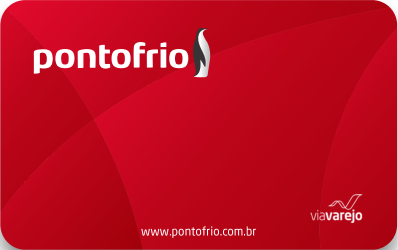
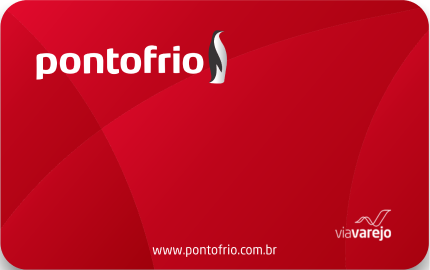
fix: app

diff --git a/src/screens/Document/styles.js b/src/screens/Document/styles.js
@@ -1,4 +1,4 @@
-import styled from "styled-components/native";
+import styled from 'styled-components/native';
 
 export const Container = styled.View`
   flex-direction: row;
@@ -22,19 +22,20 @@ export const DocumentView = styled.View`
   flex: 1;
   margin-left: 20px;
   justify-content: center;
+  align-items: center;
 `;
 
 export const CardFront = styled.ImageBackground`
   justify-content: flex-end;
   padding: 20px;
-  height: 250px;
-  width: 400px;
+  height: 270px;
+  width: 432px;
 `;
 
 export const CardBack = styled.ImageBackground`
   padding: 20px;
-  height: 250px;
-  width: 400px;
+  height: 270px;
+  width: 432px;
   flex-direction: row;
 `;
 

diff --git a/src/screens/Home/index.js b/src/screens/Home/index.js
@@ -85,7 +85,7 @@ export default function Home({navigation}) {
 
           <Option
             onPress={() => {
-              Linking.openURL('tel:0800');
+              Linking.openURL('tel:08007766013');
             }}>
             <IconView>
               <Icon source={contatos} />
@@ -93,9 +93,6 @@ export default function Home({navigation}) {
             <Label>Contatos</Label>
           </Option>
         </Row>
-
-            <Profile>08007766013</Profile>
-
       </Menu>
       <Logout onPress={() => dispatch(singOut())}>
         <Icon source={sair} />

diff --git a/src/screens/Home/styles.js b/src/screens/Home/styles.js
@@ -10,7 +10,7 @@ export const Header = styled.View`
 export const HeadImage = styled.ImageBackground`
   justify-content: flex-end;
   flex-direction: row;
-  flex: 1;
+  height: 450px;
 `;
 
 export const TextView = styled.View`
@@ -87,6 +87,7 @@ export const Label = styled.Text`
   color: #fff;
   margin-top: 7px;
   font-size: 11px;
+  text-align: center;
 `;
 
 export const Logout = styled.TouchableOpacity`

diff --git a/src/screens/Details/styles.js b/src/screens/Details/styles.js
@@ -1,6 +1,6 @@
-import styled from "styled-components/native";
+import styled from 'styled-components/native';
 
-import MapView from "react-native-maps";
+import MapView from 'react-native-maps';
 
 export const Container = styled.View`
   flex: 1;

diff --git a/src/App.js b/src/App.js
@@ -1,4 +1,5 @@
 import React, {useEffect} from 'react';
+import {View} from 'react-native';
 import {useSelector} from 'react-redux';
 import {decode, encode} from 'base-64';
 
